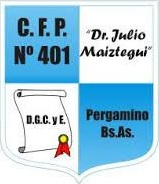
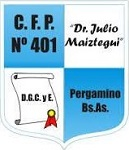
Week 6 activities (optimize images, add windChill)

diff --git a/chamber/index.html b/chamber/index.html
@@ -14,7 +14,7 @@
     <body>
         <div id='banner'><p><strong>🤝🏼 Come join us for the chamber meet and greet Wednesday at 7:00 p.m.</strong></p></div>
             <header>
-                <img class='logo' src='images/logo.jpeg' alt='Pergamino Chamber Of Commerce Logo'>
+                <img class='logo' src='images/logo.webp' alt='Pergamino Chamber Of Commerce Logo'>
                 <h1>Pergamino<div id='complete'> Chamber of Commerce</div></h1>
                 <h2>Chamber of Commerce</h2>
                 <span id='time'></span>
@@ -37,7 +37,19 @@
             <main>
                 <section id='hero'>
                     <h3>Hero with site name and call to action</h3>
-                    <img src='images/Pergamino.jpg' alt='Pergamino, Plaza Merced'>
+                    <!-- <figure id="fig">
+                        <img src='images/wdd230-org-large.jpg' alt='Pergamino, Plaza Merced'
+                        srcset="images/wdd230-org-large.jpg 1500w,
+                        images/wdd230-org-medium.jpg 1024w,
+                        images/wdd230-org-small.jpg 560w,
+                        ">
+                    </figure> -->
+                    <picture class="nopadding">
+                        <source media="(max-width: 560px)" srcset="images/wdd230-org-small.jpg" class="nopadding">
+                        <source media="(max-width: 1024px)" srcset="images/wdd230-org-medium.jpg" class="nopadding">
+                        <source media="(max-width: 1500px)" srcset="images/wdd230-org-large.jpg" class="nopadding">
+                        <img src='images/wdd230-org-large.jpg' alt='Pergamino, Plaza Merced'>
+                    </picture>
                 </section>
                 <section id='event'>
                     <h3>Ballet Odille Presentation</h3>
@@ -46,7 +58,9 @@
                 </section>
                 <section id='weather'>
                     <h3>Weather</h3>
-                    <p>24°</p>
+                    <p id="temperature">30°C</p>
+                    <p id="windSpeed">2.5 km/h</p>
+                    <span id="windChill"></span>
                     <p>Sunny</p>
                 </section>
                 <section id='news'>
@@ -78,7 +92,7 @@
         <footer>
             
             <div id='first'>
-                <img class='logo' src='images/logo.jpeg' alt='Pergamino Chamber Of Commerce Logo'>
+                <img class='logo' src='images/logo.webp' alt='Pergamino Chamber Of Commerce Logo'>
                 <p><strong>Pergamino Chamber of Commerce</strong></p>
                 <p id='contact'>Agustin A. A. Aguilar | aguilarag98@gmail.com</p>
                 <a href='https://goo.gl/maps/st8eLSo3jBRN3AYj6'><strong>&#xf276;Location</strong></a></div>
@@ -92,5 +106,6 @@
             
         </footer>  
     <script src="js/script.js"></script>
+    <script src="js/windchill.js"></script>    
     </body>
 </html>

diff --git a/chamber/js/windchill.js b/chamber/js/windchill.js
@@ -1,0 +1,16 @@
+let temperatureInt=''
+let wSpeedInt=''
+let temperature=document.getElementById('temperature').innerHTML
+let windSpeed=document.getElementById('windSpeed').innerHTML
+
+wSpeedInt=parseFloat(windSpeed)
+temperatureInt=parseInt(temperature,10)
+
+let windChillCalculator= function(t,s){
+    let windCill=''
+    if (t<=10 && s>=4.8){
+        windCill=35.74+0.6215*t-35.75*s**0.16+0.4275*t*s**0.16
+        return windCill
+    }else{return 'N/A'}
+}
+document.getElementById('windChill').innerHTML=windChillCalculator(temperatureInt,wSpeedInt)

diff --git a/chamber/css/base.css b/chamber/css/base.css
@@ -275,6 +275,21 @@ body #banner.show{
     top:15px;
     left: 20px;
     background-color: rgba(255, 255, 255, 0.733);
+    padding: 0;
+}
+#fig{
+    height: -webkit-fill-available;
+    margin: 0;
+    padding: 0;
+}
+picture{
+    display: block;
+    width: 100%;
 }
 
-
+.nopadding{
+    padding:0
+}
+.nopadding img{
+    max-height: 180px;
+}

diff --git a/chamber/css/large.css b/chamber/css/large.css
@@ -120,4 +120,7 @@
     main{
         grid-template-columns: 1fr 1fr 1fr 25%;
     }
+    .nopadding img{
+        max-height: 40 0px;
+    }
     }
